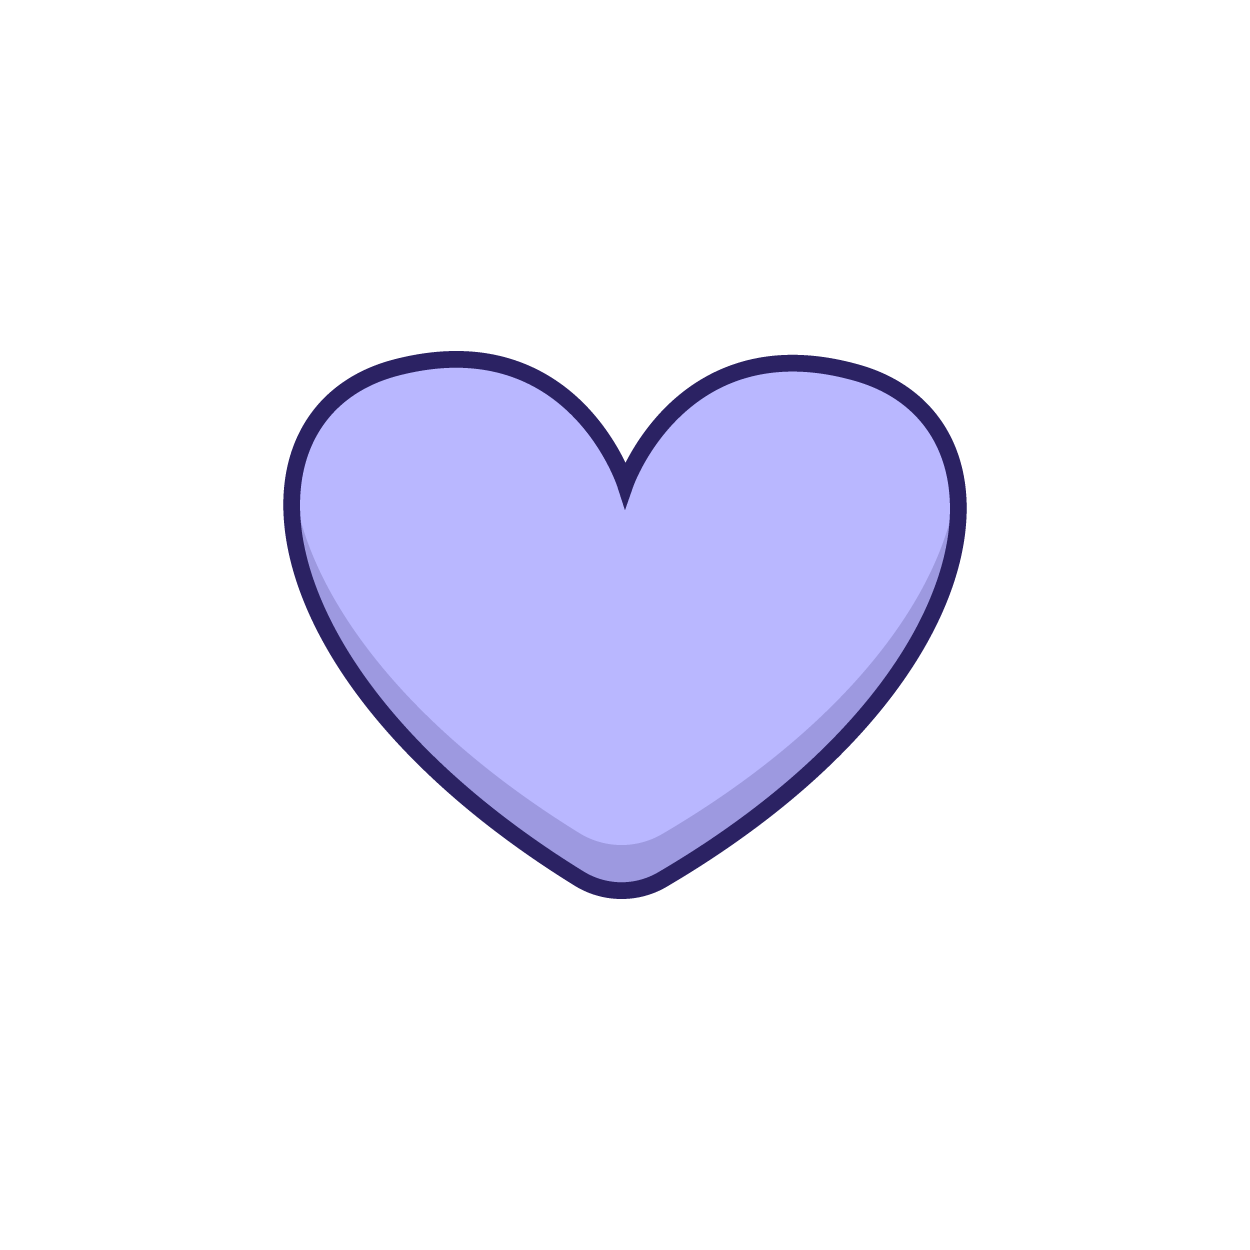
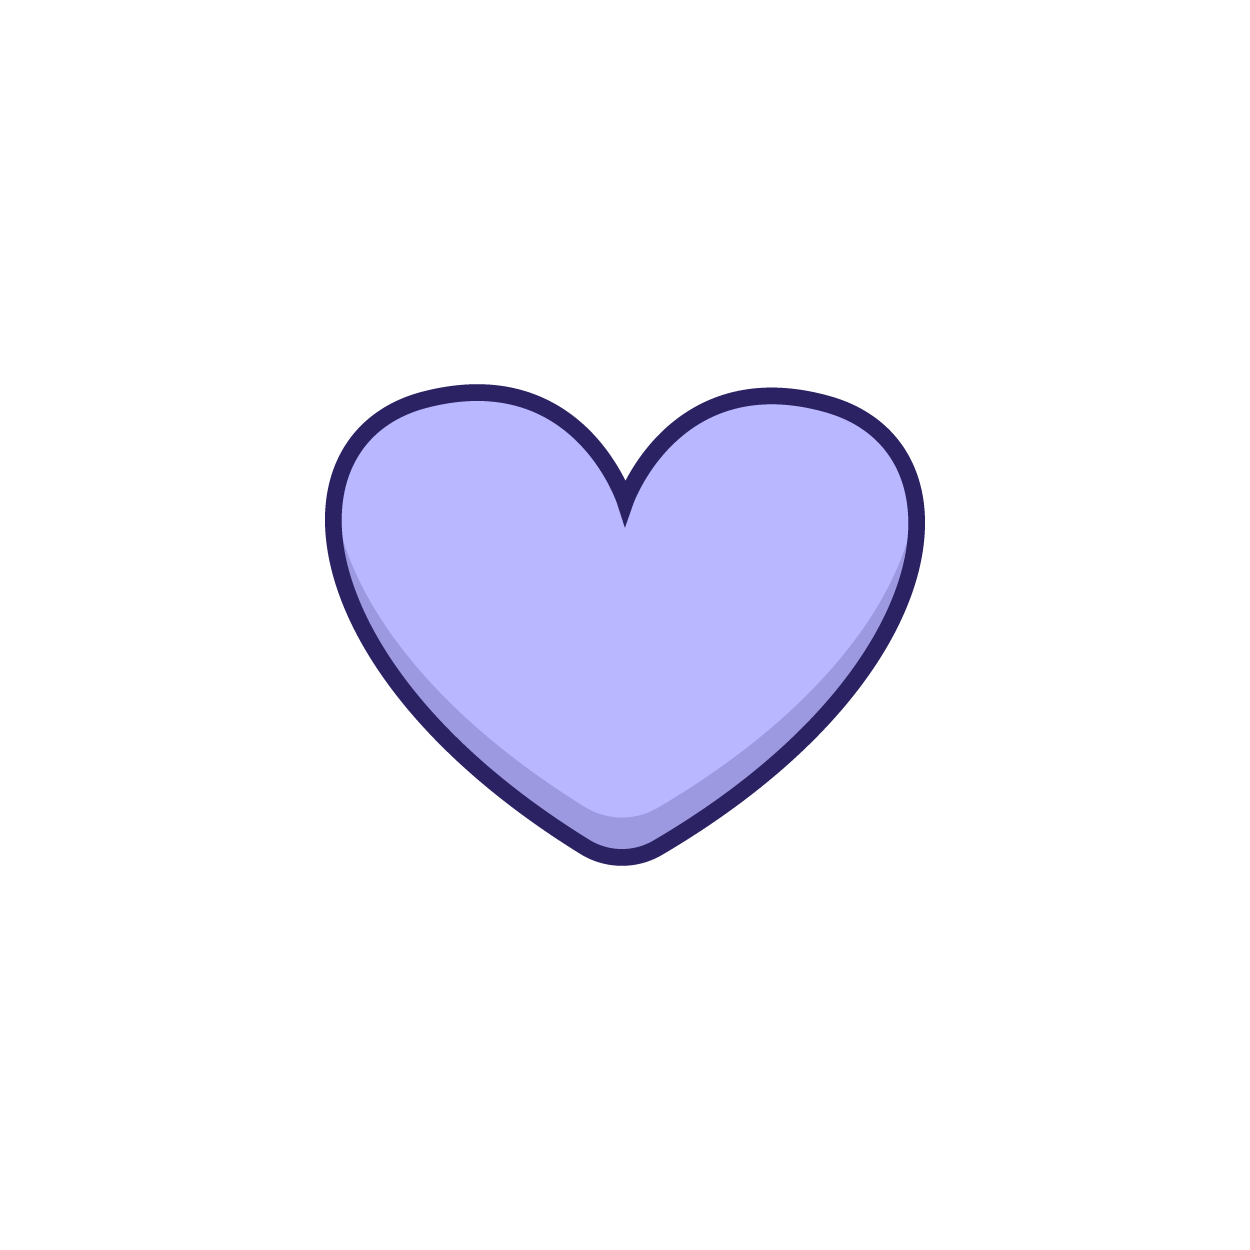
update

Changed region(s): [[0.2184, 0.2808, 0.78, 0.7176]]

diff --git a/luckystars.html b/luckystars.html
@@ -73,8 +73,8 @@
         <!-- Controls -->
     <div class="game-controls">
       <div class="spin-buttons">
-        <button class="control-btn" id="rules-btn">Rules</button>
-        <button class="test-btn" id="test-spin-btn">TEST</button>
+        <button class="control-btn" id="rules-btn">=</button>
+        <button class="test-btn" id="test-spin-btn">T</button>
         <button class="spin-btn" id="spin-btn">SPIN</button>
       </div>
       <div class="status-text" id="status-text">Spins Left: <span>1</span></div>

diff --git a/style.css b/style.css
@@ -1043,8 +1043,8 @@ footer p {
 
 /* Icon sizing */
 .game-tile img {
-    width: 100%;
-    height: 100%
+    width: 80%;
+    height: 80%
     object-fit: contain;
 }
 
